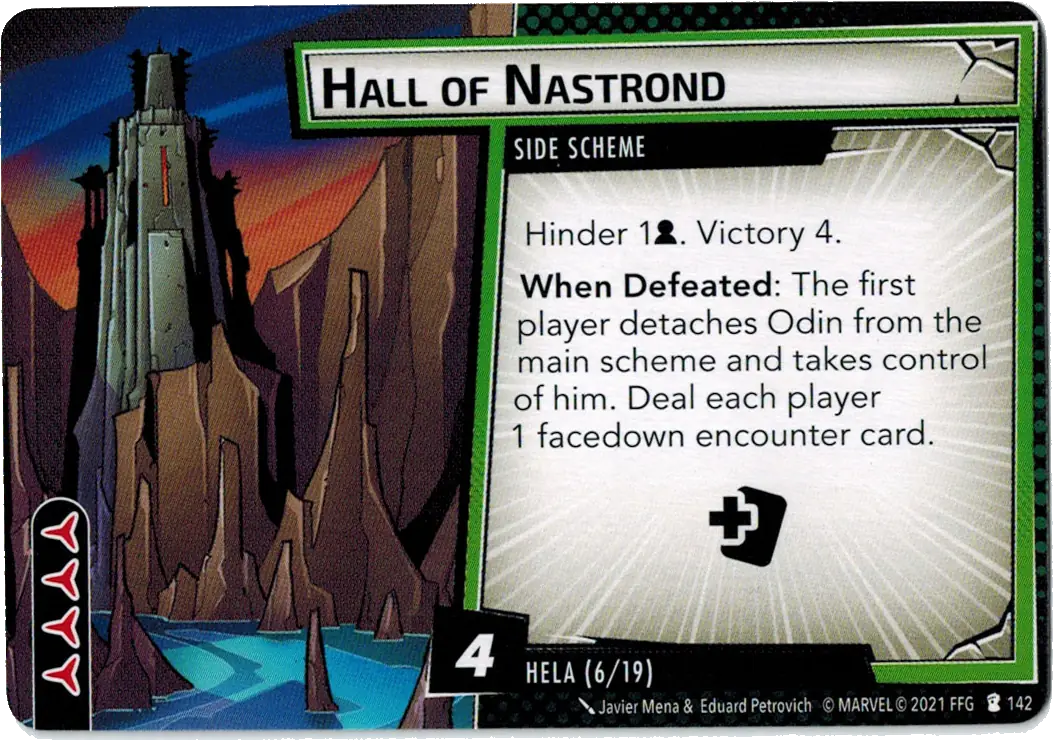
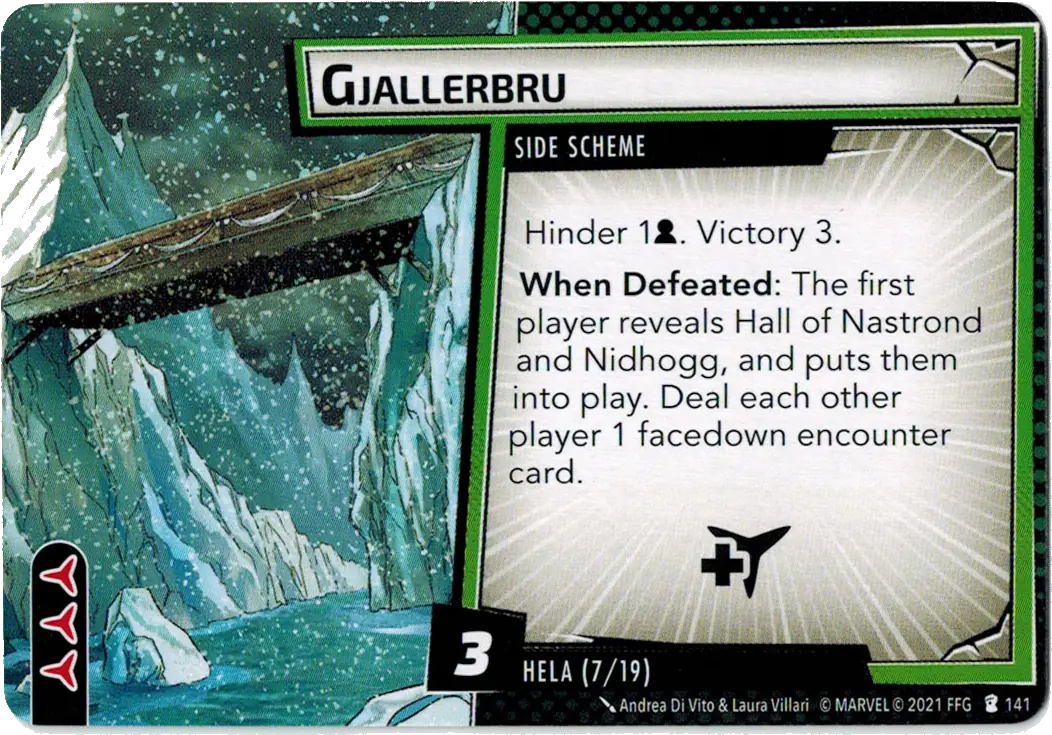
Gjallerbru and Hall of Nastrond show their own pictures (#314)
MarvelCDB's codes for these two Hela side schemes run opposite to the printed
collector numbers (Hall of Nastrond is 21141 but prints 142; Gjallerbru is 21142
but prints 141). The art overrides were keyed to the printed number, so each card
got the other's scan. Swap the two images, the manifest rows and the overrides,
with a note so a re-fetch keeps them right. Card data and abilities were already
correct.

diff --git a/scripts/fetch_card_art.py b/scripts/fetch_card_art.py
@@ -721,8 +721,10 @@ PACK_FILENAME_CODES: dict[str, dict[str, str]] = {
         "c4-1": "21128",  # Tribute
         "i4": "21132",  # Reality Stone
         "i7": "21135",  # Time Stone
-        "h7": "21141",  # Hall of Nastrond
-        "h6": "21142",  # Gjallerbru
+        # MarvelCDB's codes for these two run opposite to the printed collector numbers: Hall of Nastrond prints 142
+        # but is MarvelCDB 21141, and Gjallerbru prints 141 but is 21142. Match them by name, not by printed number.
+        "h6": "21141",  # Hall of Nastrond
+        "h7": "21142",  # Gjallerbru
         "h8": "21143",  # Garm
         "h13": "21148",  # Hela's Crown
         "h14": "21149",  # Hela's Domain
